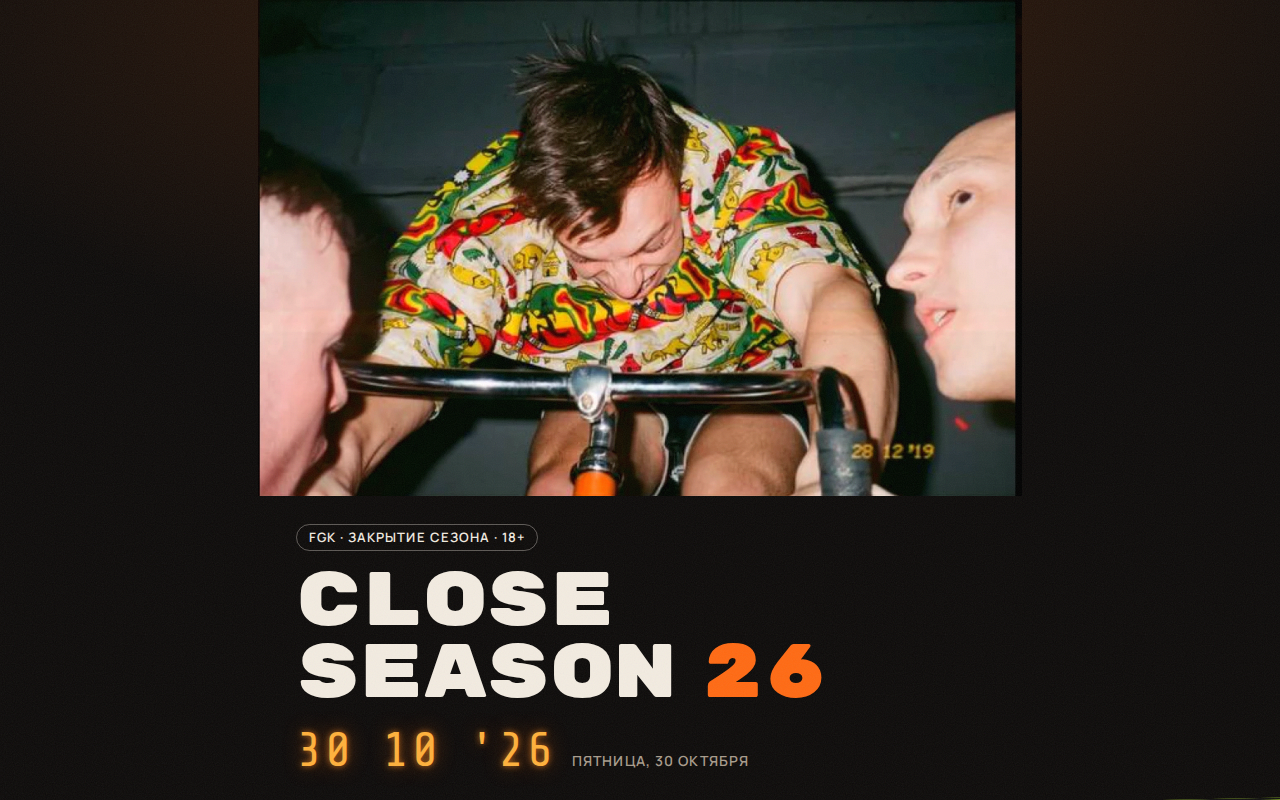
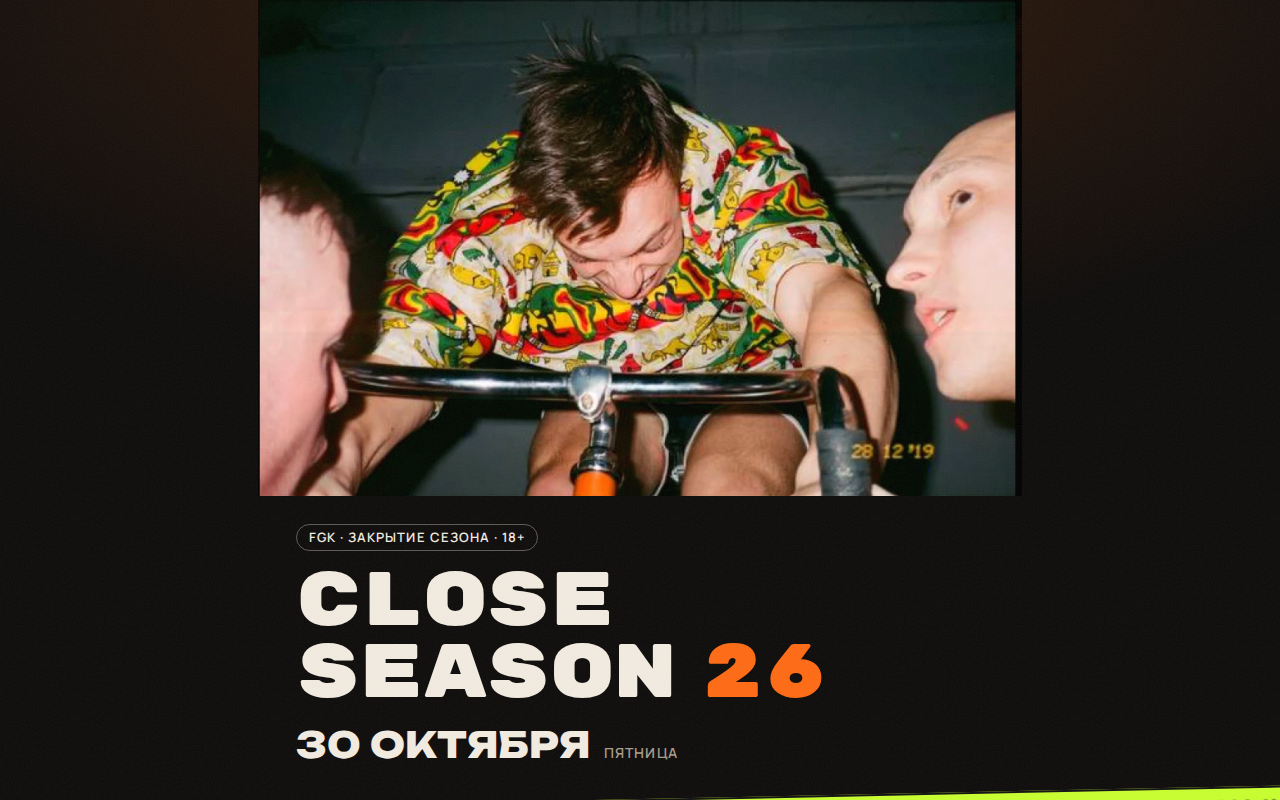
Дата без стилизации под плёнку
Claude-Session: https://claude.ai/code/session_0122weFEyBkPzVmy7e3pz2TB

Changed region(s): [[0.2188, 0.9062, 0.5938, 0.9688], [0.5938, 0.9688, 1.0, 1.0]]

diff --git a/index.html b/index.html
@@ -8,7 +8,7 @@
   <meta name="theme-color" content="#0d0b0a">
   <link rel="preconnect" href="https://fonts.googleapis.com">
   <link rel="preconnect" href="https://fonts.gstatic.com" crossorigin>
-  <link href="https://fonts.googleapis.com/css2?family=Rubik+Mono+One&family=Unbounded:wght@500;800&family=Manrope:wght@400;600;800&family=Share+Tech+Mono&display=swap" rel="stylesheet">
+  <link href="https://fonts.googleapis.com/css2?family=Rubik+Mono+One&family=Unbounded:wght@500;800&family=Manrope:wght@400;600;800&display=swap" rel="stylesheet">
   <link rel="stylesheet" href="style.css">
 </head>
 <body>
@@ -21,7 +21,7 @@
     <div class="hero__content">
       <p class="hero__kicker">FGK · закрытие сезона · 18+</p>
       <h1 class="hero__title">Close Season<span>26</span></h1>
-      <p class="hero__date"><time datetime="2026-10-30">30 10 '26</time><span>пятница, 30 октября</span></p>
+      <p class="hero__date"><time datetime="2026-10-30">30 октября</time><span>пятница</span></p>
     </div>
     <div class="ticker" aria-hidden="true">
       <div class="ticker__track">

diff --git a/style.css b/style.css
@@ -94,16 +94,13 @@ h1, h2, h3 { margin: 0; }
 }
 @keyframes ticker { to { transform: translateX(-50%); } }
 
-/* дата в стиле плёночной датировки на фото */
 .hero__date {
-  display: flex; flex-wrap: wrap; align-items: baseline; gap: 6px 16px;
+  display: flex; flex-wrap: wrap; align-items: baseline; gap: 6px 14px;
   margin: 18px 0 0;
 }
 .hero__date time {
-  font: 400 clamp(30px, 6vw, 48px)/1 "Share Tech Mono", ui-monospace, monospace;
-  letter-spacing: .06em;
-  color: #ffb13b;
-  text-shadow: 0 0 6px rgba(255,140,30,.75), 0 0 22px rgba(255,106,19,.45);
+  font: 800 clamp(24px, 4.6vw, 36px)/1 var(--head);
+  text-transform: uppercase;
 }
 .hero__date span {
   color: var(--muted);
